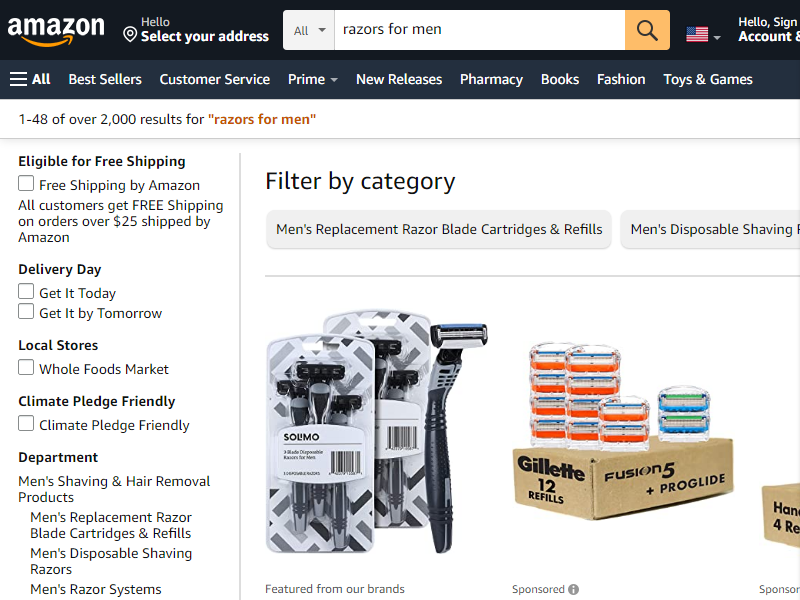
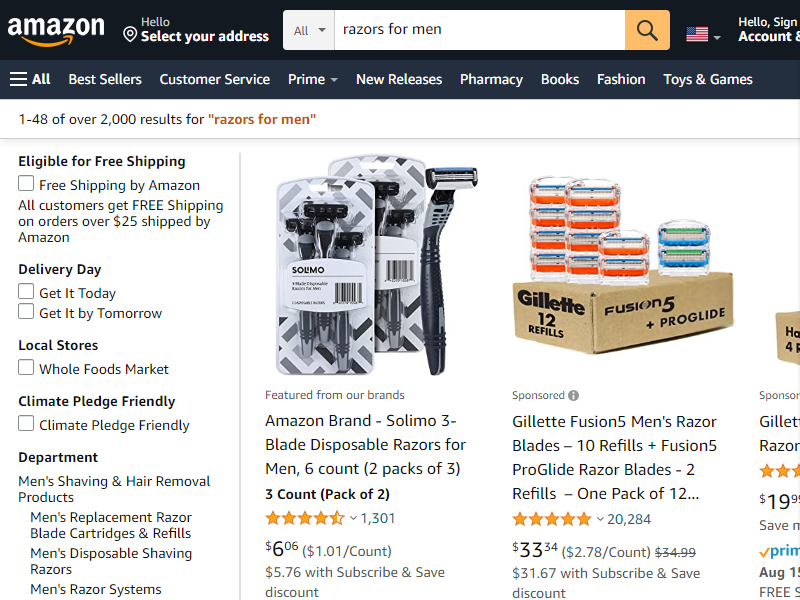
length sizes of arrays do not match

Changed region(s): [[0.3125, 0.24, 1.0, 1.0]]

diff --git a/server/product_search.js b/server/product_search.js
@@ -20,19 +20,21 @@ async function searchValue(value, page) {
     await page.$eval( '#nav-search-submit-button', form => form.click() );
     await timeout(2000);
     await page.screenshot({path: 'example.png'});
-    const searchPrices = await page.$$eval('span.a-price', items => items.map( item => item.textContent));
+
+    const searchPrices = await page.$$eval('div.a-row > a.a-size-base > span.a-price > span.a-offscreen', items => items.map( item => item.textContent));
     for(var i = 0; i < searchPrices.length; i++) {
         searchPrices[i] = searchPrices[i].replace('$', '');
     }
-
-
     console.log(searchPrices);
-    // let html = await page.evaluate(() => document.body.innerHTML);
-    // console.log(html);
-    // await page.waitForSelector('#resultsCol');
-    // const firstProduct = await page.$('a.a-link-normal.a-text-normal');
-    // console.log(firstProduct);
-    // await checkSearchedText(page);
+
+    const searchProducts = await page.$$eval('div.a-section > h2.a-size-mini > a.a-link-normal > span.a-size-base-plus', items => items.map( item => item.textContent));
+    console.log(searchProducts);
+
+    console.log(searchPrices.length);
+    console.log(searchProducts.length);
+
+    // const searchLinks = await page.$$eval('span.a-price > span.a-offscreen', items => items.map( item => item.textContent));
+
 }
 
 async function runSearch() {
